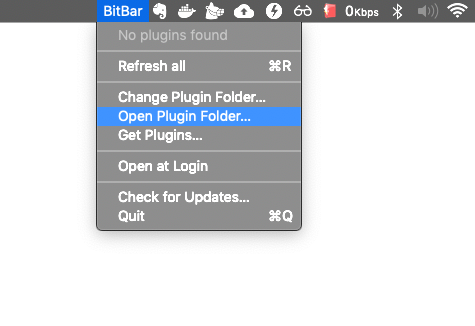
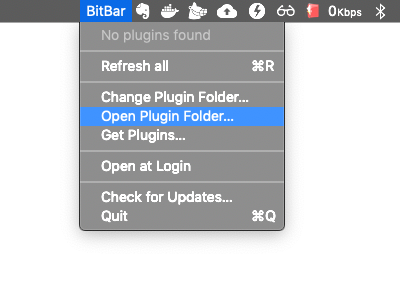
Update images and layout

Changed region(s): [[0.0, 0.0, 1.0, 0.81]]

diff --git a/_posts/2020-05-11-how-to-configure-a-simple-internet-status-widget-in-macos-menu-bar.md b/_posts/2020-05-11-how-to-configure-a-simple-internet-status-widget-in-macos-menu-bar.md
@@ -19,7 +19,7 @@ BitBar is an opensource macOS utility to put the output of any executable script
 
 **Step 2:** Open its plugin folder.
 
-![BitBar plugin directory](/assets/images/bitbar_plugin_dir.png){: .project-image}
+![BitBar plugin directory](/assets/images/bitbar_plugin_dir.png){: .project-image.align-center}
 
 **Step 3:** Copy this script with file name `check_internet.5s.sh` to the plugin folder.
 
@@ -49,20 +49,20 @@ chmod +x <path to>/check_internet.5s.sh
 
 **Step 5:** Click `Refresh all`
 
-![BitBar Refresh all](/assets/images/bitbar_refresh_all.png){: .project-image}
+![BitBar Refresh all](/assets/images/bitbar_refresh_all.png){: .project-image.align-center}
 
 You are all set! BitBar now checks your internet every 5 seconds and it would show "❎" emoji in the menu bar when your internet isn't working.
 
 
-![BitBar not connected](/assets/images/bitbar_not_connected.png){: .project-image}
+![BitBar not connected](/assets/images/bitbar_not_connected.png){: .project-image.align-center}
 
 When you have a stable internet, it shows a "✔".
 
-![BitBar connected](/assets/images/bitbar_connected.png){: .project-image}
+![BitBar connected](/assets/images/bitbar_connected.png){: .project-image.align-center}
 
 It would also show you the latency if it's above 30ms. This information would be useful when you have the internet but the connection isn't stable.
 
 
-![BitBar not connected](/assets/images/bitbar_high_latency.png){: .project-image}
+![BitBar not connected](/assets/images/bitbar_high_latency.png){: .project-image.align-center}
 
 I hope it helped. Thanks for reading. Stay Safe.
